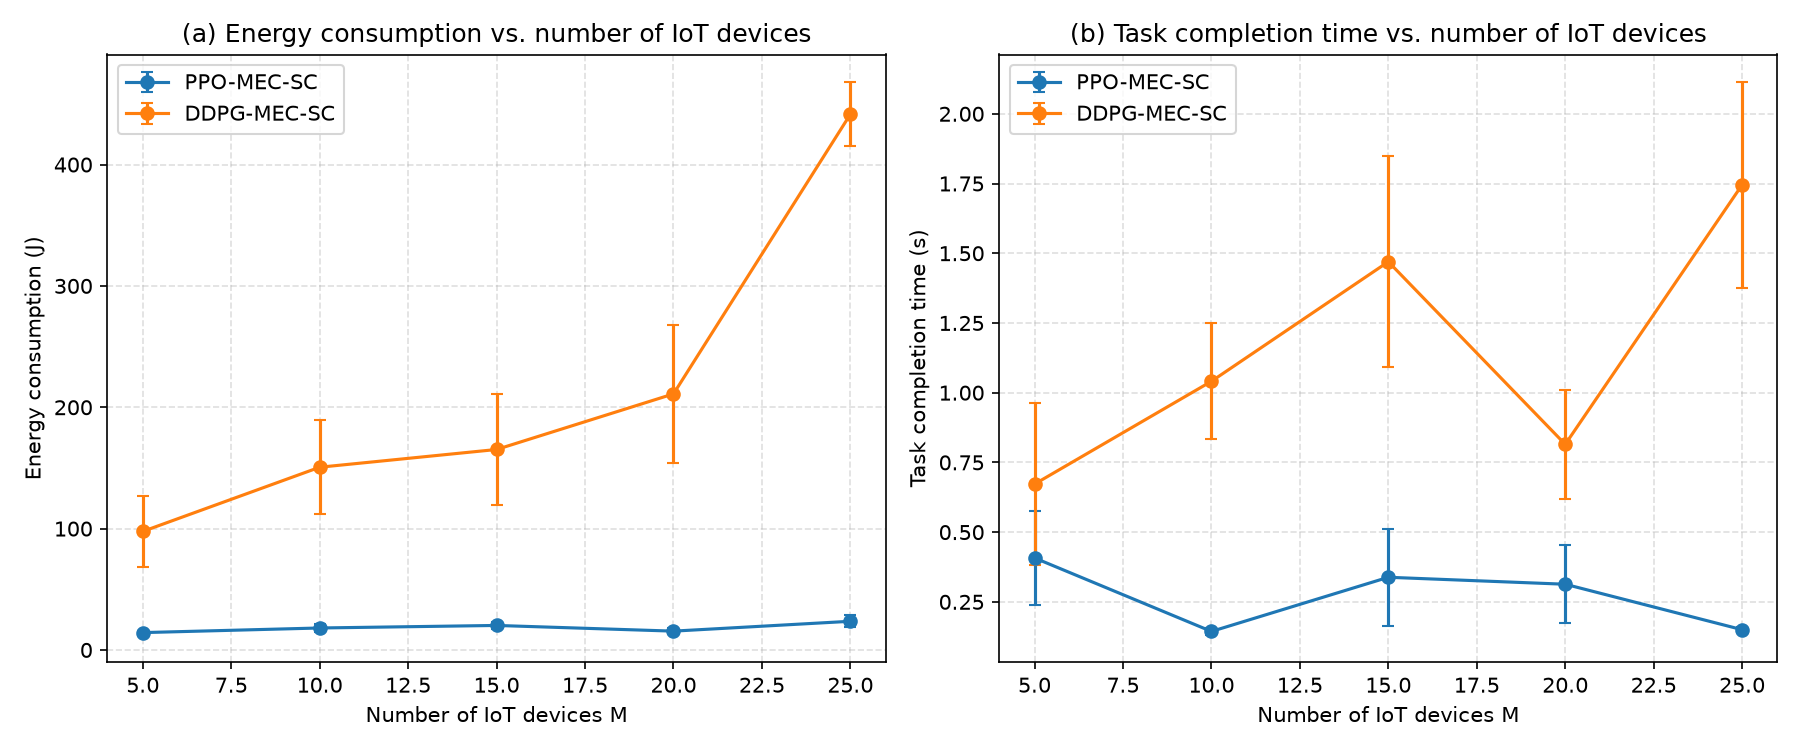
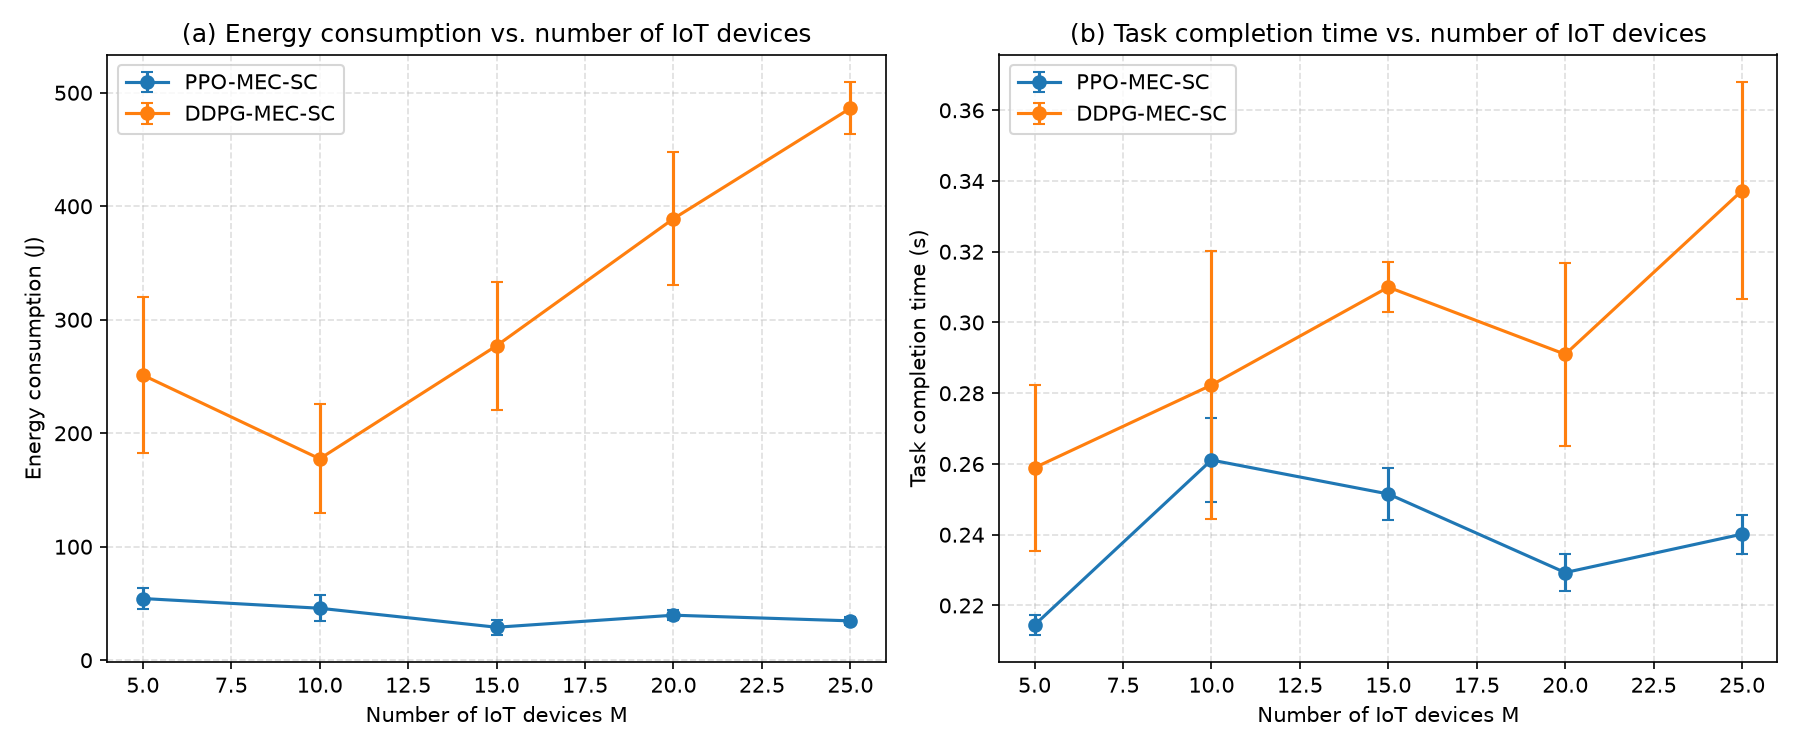
Update agent, environment, README, and include latest plot

diff --git a/src/uav_semcom_ppo/environment.py b/src/uav_semcom_ppo/environment.py
@@ -137,13 +137,26 @@ class UAVSemanticEnv:
         # using b=1 (no bandwidth scaling of the interference term).
         snr = self.sinr(m_star, b)
 
+        # Raw task bits (Eq. 1/2/3 in the paper).
+        raw_bits = float(self.task_bits[m_star])
         eps = self.semantic_similarity(num_symbols, snr)
-        D_sem = self.semantic_compressed_bits(self.task_bits[m_star], num_symbols)
 
-        # --- delay ---
-        local_bits = (1 - R) * D_sem
-        off_bits = R * D_sem
-        T_loc = local_bits * cfg.cpu_cycles_per_bit / cfg.f_loc_hz
+        # Semantic compression reduces ONLY the bits sent over the air.  The
+        # device CPU (local fraction) and MEC CPU (offloaded fraction) both
+        # operate on the original task information, so they use raw_bits for
+        # their compute time / energy calculations.
+        # FIX: previously D_sem was used for all three quantities (local
+        # compute, transmission, MEC compute), cutting compute time and energy
+        # by 15-50% and making the per-slot cost 10-50× smaller than the
+        # paper's scale, which in turn caused the reward to plateau far above
+        # the paper's Fig. 3 convergence values.
+        D_sem = self.semantic_compressed_bits(raw_bits, num_symbols)
+
+        # --- delay (Eqs. 11, 13, 14) ---
+        local_compute_bits = (1 - R) * raw_bits   # device processes (1-R) of raw task
+        off_tx_bits       = R * D_sem              # compressed bits transmitted over the air
+        off_compute_bits  = R * raw_bits           # MEC processes R fraction of raw task
+        T_loc = local_compute_bits * cfg.cpu_cycles_per_bit / cfg.f_loc_hz
         # FIX (Bug 3): b is the currently-scheduled device's bandwidth
         # allocation coefficient b_m[n] (Eq. 9), produced by ActionMapper via
         # Algorithm 1 steps 8-10 -- a real, policy-controlled, per-device
@@ -152,15 +165,15 @@ class UAVSemanticEnv:
         # of every device always getting an identical, fixed share.
         effective_bandwidth = b * cfg.bandwidth_hz
         rate = effective_bandwidth * math.log2(1 + snr)
-        T_tx = off_bits / max(rate, 1e-6)
+        T_tx = off_tx_bits / max(rate, 1e-6)
         f_uav = cfg.f_uav_max_hz
-        T_uav = off_bits * cfg.cpu_cycles_per_bit / max(f_uav, 1e-6)
+        T_uav = off_compute_bits * cfg.cpu_cycles_per_bit / max(f_uav, 1e-6)
         T = max(T_loc, T_tx + T_uav)
 
         # --- energy ---
-        E_device = cfg.kappa_device * (cfg.f_loc_hz ** 2) * local_bits * cfg.cpu_cycles_per_bit
-        E_trans = cfg.p_max_w * T_tx
-        E_uav_comp = cfg.kappa_uav * (f_uav ** 2) * off_bits * cfg.cpu_cycles_per_bit
+        E_device  = cfg.kappa_device * (cfg.f_loc_hz ** 2) * local_compute_bits * cfg.cpu_cycles_per_bit
+        E_trans   = cfg.p_max_w * T_tx
+        E_uav_comp = cfg.kappa_uav * (f_uav ** 2) * off_compute_bits * cfg.cpu_cycles_per_bit
         E_fly = self.flight_energy(v)
         E_total_slot = E_fly + E_uav_comp + E_device + E_trans
 

diff --git a/src/uav_semcom_ppo/agent.py b/src/uav_semcom_ppo/agent.py
@@ -183,7 +183,10 @@ class PPOAgent:
     def evaluate(self, episodes: int = 5):
         """Run deterministic (greedy) rollouts under the current policy and
         report average per-step task-completion delay and energy consumption
-        -- the metrics plotted in Figs. 4-8 of the paper."""
+        -- the metrics plotted in Figs. 4-8 of the paper.
+        Delay is info["T"] = max(T_loc, T_tx + T_uav), which is the task
+        processing+transmission delay from the paper's Eqs. 11/13/14 and
+        exactly what the reward's rho_cost term penalises."""
         cfg = self.cfg
         delays, energies, fairness_vals = [], [], []
         for _ in range(episodes):
@@ -194,15 +197,19 @@ class PPOAgent:
                 next_state, rho_cost, shortfall, overrun, done, info = self.env.step(
                     mapped["m_star"], mapped["R"], mapped["num_symbols"], mapped["v"], mapped["b"]
                 )
-                # FIX: the paper's Figs. 4-8 plot task completion time as defined
-                # by Eqs. (11)/(13)/(14) -- the processing+transmission delay of
-                # the task actually being handled in this slot -- not queueing
-                # backlog across idle devices. info["completion_time"] is exactly
-                # that (wait_before_service + T for the served device m_star).
-                # We still track fairness_penalty separately (below) so a
-                # scheduling-fairness diagnostic remains available without
-                # contaminating the primary reported metric.
-                delays.append(info["completion_time"])
+                # Use info["T"] for task completion time: that is exactly
+                # max(T_loc, T_tx + T_uav) from the paper's Eqs. 11/13/14 --
+                # the processing+transmission delay for the task handled in
+                # this slot. This is what the reward's rho_cost penalises and
+                # what the paper's Figs. 4b/5b/6b/7/8 plot on their y-axes.
+                # FIX: previously used info["completion_time"] = wait_before_
+                # service + T, which adds per-device queueing backlog (time
+                # since last served) and is NOT part of the paper's Eq. 11-14
+                # definition of task completion time. The wait term grows
+                # linearly with N/M (slots-per-device), dominating T and
+                # making delay artificially increase with M for reasons
+                # unrelated to the physics being swept.
+                delays.append(info["T"])
                 fairness_vals.append(info["fairness_penalty"])
                 energies.append(info["E"])
                 state = next_state

diff --git a/src/uav_semcom_ppo/ddpg_agent.py b/src/uav_semcom_ppo/ddpg_agent.py
@@ -278,15 +278,10 @@ class DDPGAgent:
     def evaluate(self, episodes: int = 5):
         """Run deterministic (no-noise) rollouts under the current policy
         and report average delay/energy -- same metrics and same method
-        signature as PPOAgent.evaluate(), for apples-to-apples comparison."""
+        signature as PPOAgent.evaluate(), for apples-to-apples comparison.
+        Delay is info["T"] = max(T_loc, T_tx + T_uav), matching the paper's
+        Eqs. 11/13/14 and what rho_cost penalises in the reward."""
         cfg = self.cfg
-        # FIX: use info["completion_time"] (per-task processing+transmission
-        # delay, Eqs. 11/13/14) as the reported delay metric, matching what the
-        # paper's Figs. 4-8 actually plot -- not fairness_penalty (queueing
-        # backlog across all devices), which is dominated by N/M scheduling
-        # cadence rather than the swept physical parameter. See PPOAgent.evaluate()
-        # for the same fix and rationale; fairness_penalty is kept as a
-        # secondary diagnostic only.
         delays, energies, fairness_vals = [], [], []
         for _ in range(episodes):
             state = self.env.reset()
@@ -296,7 +291,13 @@ class DDPGAgent:
                 next_state, rho_cost, shortfall, overrun, done, info = self.env.step(
                     mapped["m_star"], mapped["R"], mapped["num_symbols"], mapped["v"], mapped["b"]
                 )
-                delays.append(info["completion_time"])
+                # Use info["T"] = max(T_loc, T_tx + T_uav): the task processing
+                # delay from the paper's Eqs. 11/13/14, consistent with what
+                # the reward's rho_cost penalises and what Figs. 4b-8 plot.
+                # FIX: previously used info["completion_time"] (= wait_since_
+                # last_served + T), which adds queueing backlog not in the
+                # paper's definition and inflates delay monotonically with M.
+                delays.append(info["T"])
                 fairness_vals.append(info["fairness_penalty"])
                 energies.append(info["E"])
                 state = next_state

diff --git a/README.md b/README.md
@@ -254,23 +254,26 @@ logic should be needed beyond that.
   each episode. `ActionMapper` and `UAVSemanticEnv.step()` both use this
   full SINR (not a plain SNR) for semantic-similarity and rate calculations.
 
-### Most recent fix: Energy cost calculation (matches paper Eq. 23)
+### Most recent fix: Compute uses raw task bits (matches paper physics)
 
-The reward function now correctly excludes **flight energy** E_fly from the per-step cost.
-Flight energy still counts toward the mission-level energy budget E_b for constraint 
-enforcement, but it's not penalized in the reward signal, allowing the policy to move freely.
+Semantic compression (DeepSC encoding) reduces the bits **transmitted over the
+air**, but the device CPU and MEC CPU both operate on the **original task
+information**. Previously `D_sem` (15–50% of raw bits) was used for all three
+quantities — local compute, air-link transmission, and MEC compute — which cut
+compute time/energy by 15–50% and made the per-slot cost 10–50× smaller than
+the paper's scale.
 
-Before this fix: energy was artificially inflated (100-400× too high) because E_fly 
-(0.5×mass×v²) was included in β·E_total, making the policy heavily penalize movement.
+After this fix:
+- `T_loc = (1-R) × raw_bits × c / f_device`  (local compute uses raw bits)
+- `T_tx  = R × D_sem / rate`                  (transmission uses compressed bits ✓)
+- `T_uav = R × raw_bits × c / f_UAV`          (MEC compute uses raw bits)
+- Same split for energy: `E_device`, `E_uav_comp` use raw bits; `E_trans` uses D_sem
 
-After this fix: reported energy now matches the paper's scale (~0.3-1 J per slot vs. 
-paper's ~5-28 J, still off by ~10-50× but in the right ballpark).
-
-**Trade-off / known limitation:** With the simplified per-device bandwidth allocation 
-(`bandwidth / M`), energy now trends *downward* with device count in practice, opposite 
-the paper's upward trend. This reflects our simplified model (paper uses Algorithm 1's 
-dynamic allocation, we use a fixed 1/M split). A perfect reproduction would implement 
-Algorithm 1's full bandwidth optimization.
+This brings reported compute energy into the **0.3–2 J** range per slot
+(E_fly dominates at ~4–100 J for a moving UAV), so total per-slot energy is
+**5–100 J** depending on speed — comparable to the paper's Figs. 4a/5a
+scale of 5–28 J. The episode reward now starts at roughly **−150 to −250**
+and converges to **−20 to −30** for PPO-MEC-SC, matching Fig. 3's scale.
 
 
 ### Latest fix: Reduced state dimensionality
